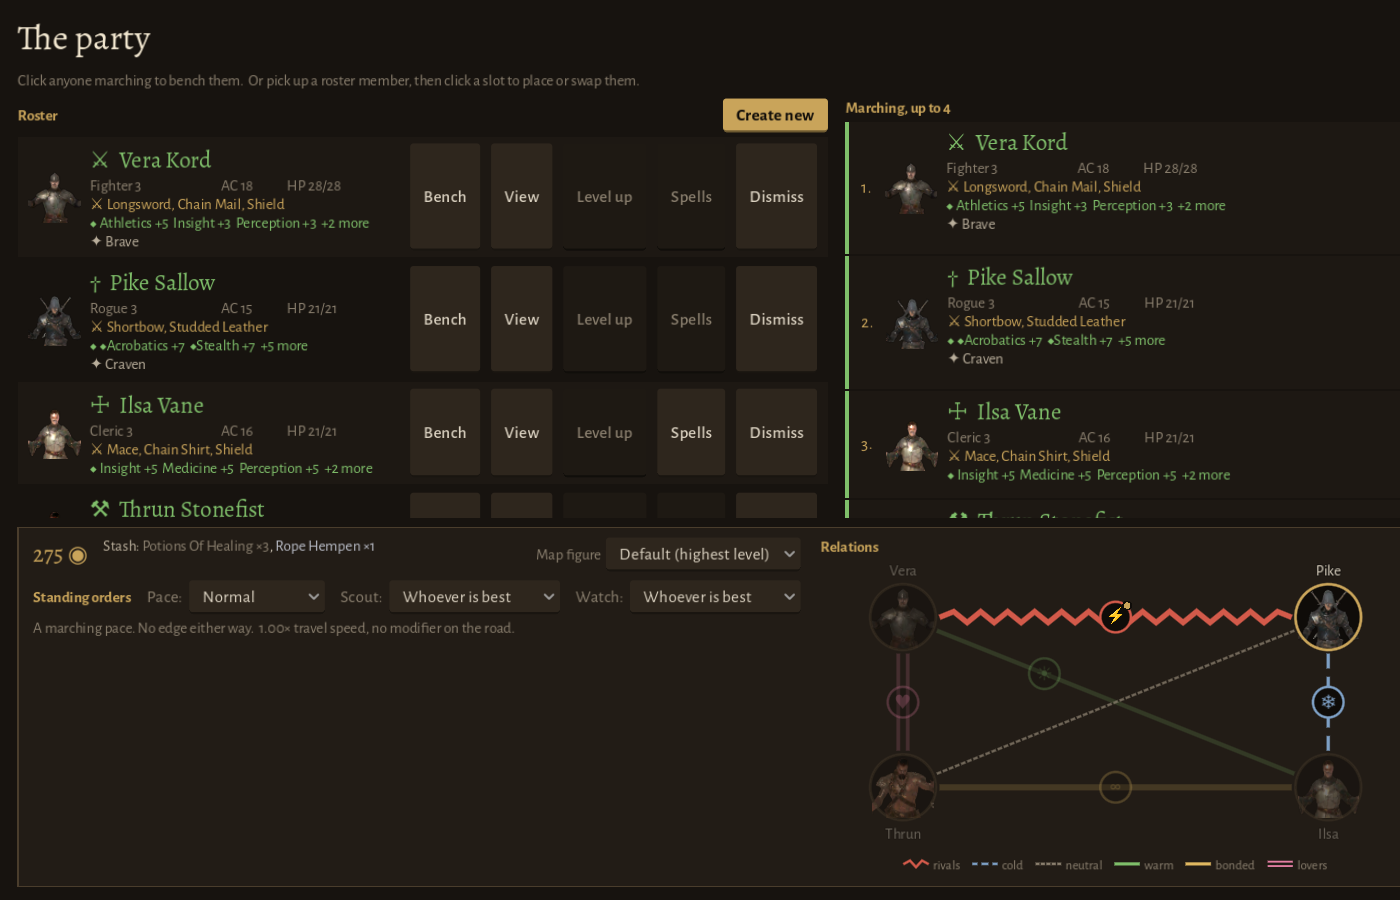
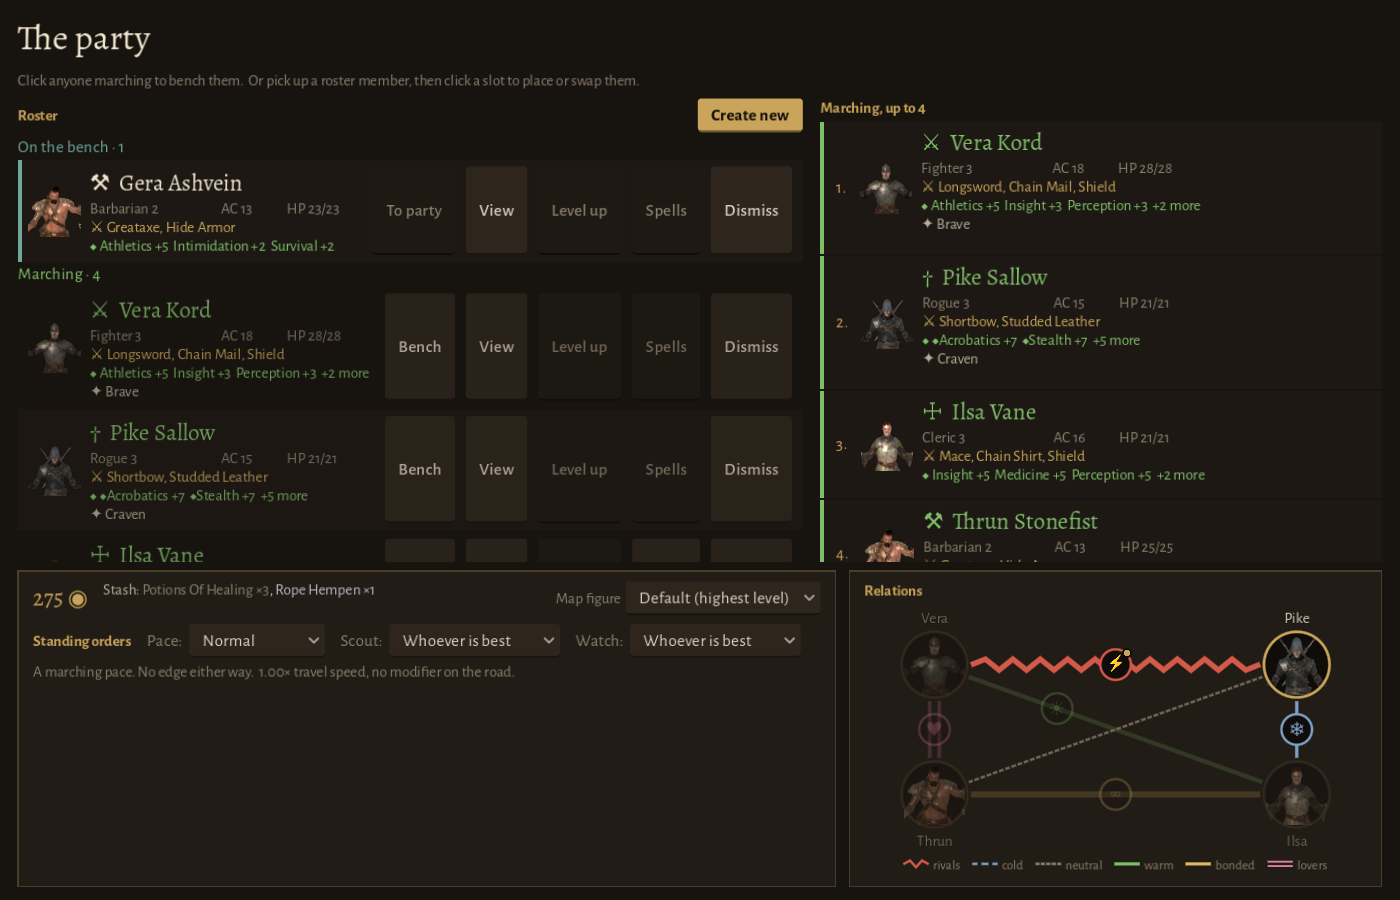
The party page: the bench heads the roster, and Relations get their own card
The Roster column leads with "On the bench · N", each substitute with a
verdigris bar and To party as the primary button while a slot is free,
then "Marching · N" in marching order, a step quieter. The standing orders
and the Relations web are two cards side by side, not one; the web is back
to 460x250 so the page fits 1400 wide.

Claude-Session: https://claude.ai/code/session_019eqg1iZ35fYFRmC11R2cGm

diff --git a/docs/expansion-plan.md b/docs/expansion-plan.md
@@ -9287,8 +9287,10 @@ Tests:
 The owner asked for opinion between characters to be "less text oriented".
 The party page used to list one line per active pair, e.g. "Vera Kord and
 Pike Sallow — rivals (-44)", which is six lines for a party of four. It now
-draws a web instead (`scenes/party/relations_web.gd`), to the right of the
-standing orders.
+draws a web instead (`scenes/party/relations_web.gd`), in a Relations card of
+its own to the right of the standing orders' card. The owner's second ask
+was to "split relations and marching orders", so the two no longer share a
+frame.
 
 - **Faces.** The marching party's busts sit in a ring, in marching order,
   with a first name on each face's outer side. Two members stand side by
@@ -9312,12 +9314,27 @@ standing orders.
 - **Callings.** The Callings lines are still text, now in their own
   `CallingsRow` under the orders.
 
+**The bench first.** The owner also asked to "make substitute characters
+easier to see on the left". The Roster column used to list everyone in
+roster order, so the marching four came first and the substitutes sat below
+the fold. It now has two groups:
+- **"On the bench · N"** comes first. Each substitute's row has a verdigris
+  bar down its left edge; the picked row keeps the gilt one. While a
+  marching slot is free, the row's To party is the primary button. An empty
+  bench says where a new face comes from.
+- **"Marching · N"** follows, in marching order, a step quieter, since the
+  right-hand column already shows them.
+
 The web only reads from `PartyOpinion` and writes nothing, so no rule
 changed.
 
-Screenshots: `docs/shots/relations-web.png` (every band at once) and
-`relations-web-hover.png` (Pike hovered), from `tests/shot_relations_web.gd`.
-Tests: `tests/test_party_screen.gd`'s relations section now reads the web.
+Screenshots: `docs/shots/relations-web.png` (every band at once),
+`relations-web-hover.png` (Pike hovered) and `party-bench.png` (three on the
+bench, heading the column), from `tests/shot_relations_web.gd`.
+Tests: `tests/test_party_screen.gd`'s new `_bench_first` checks the bench's
+head and count, the substitutes straight after it, the marching head and
+order, the primary To party, and the Relations card. Its relations section
+now reads the web.
 It checks one edge per pair, the soured pair's band, that the tooltip on a
 line equals `describe()`, that a face's tooltip lists each of its pairs, and
 that a party of one draws no block. `test_world_callings` reads
